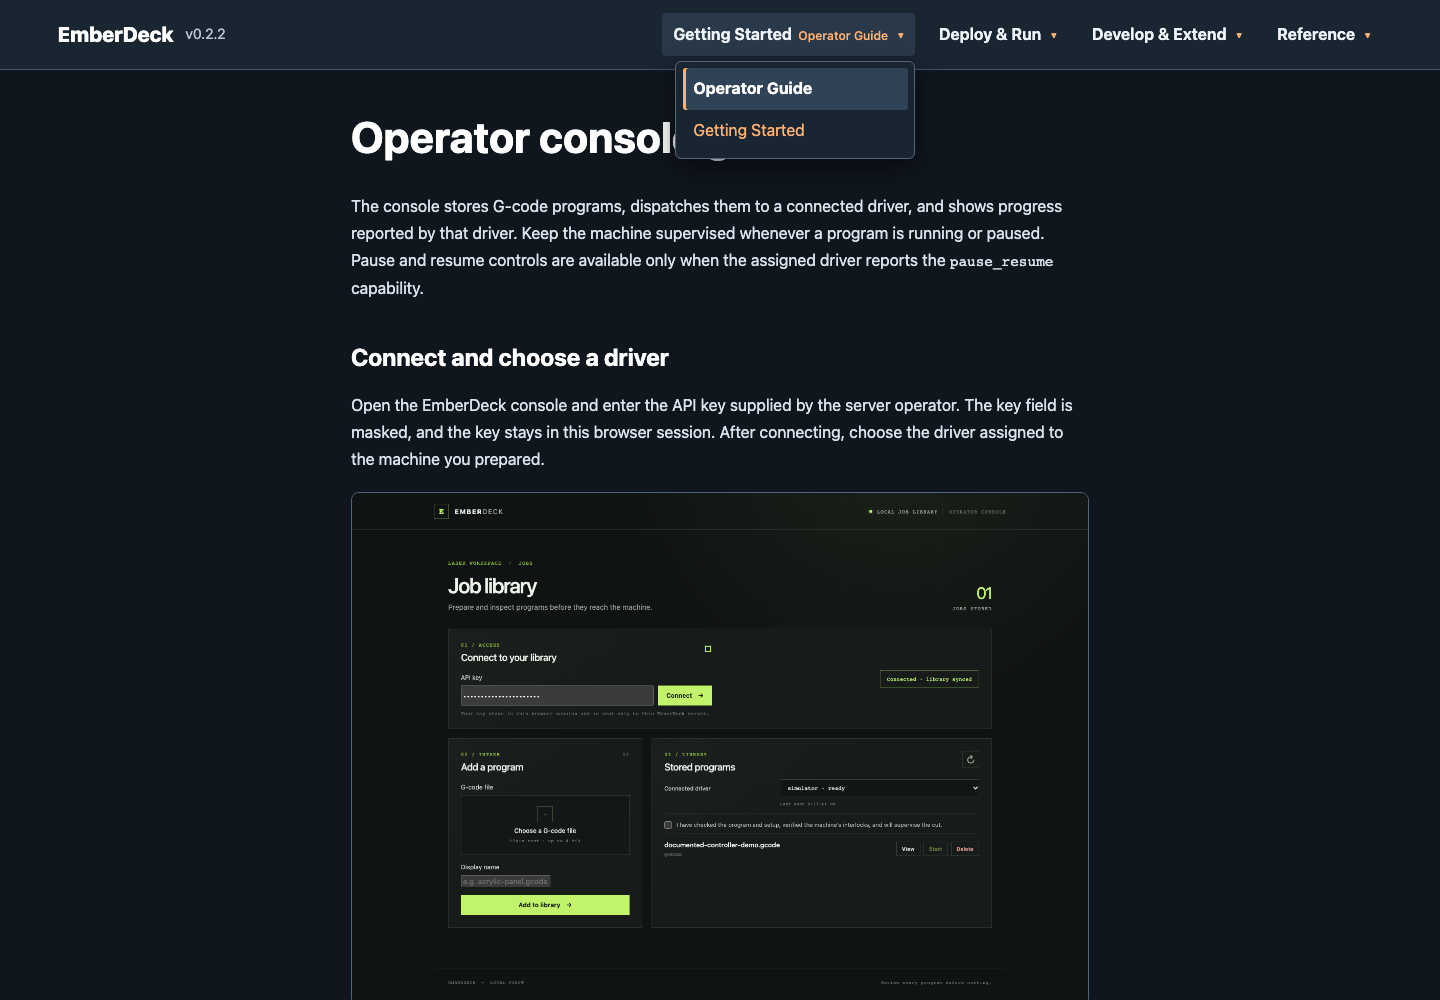
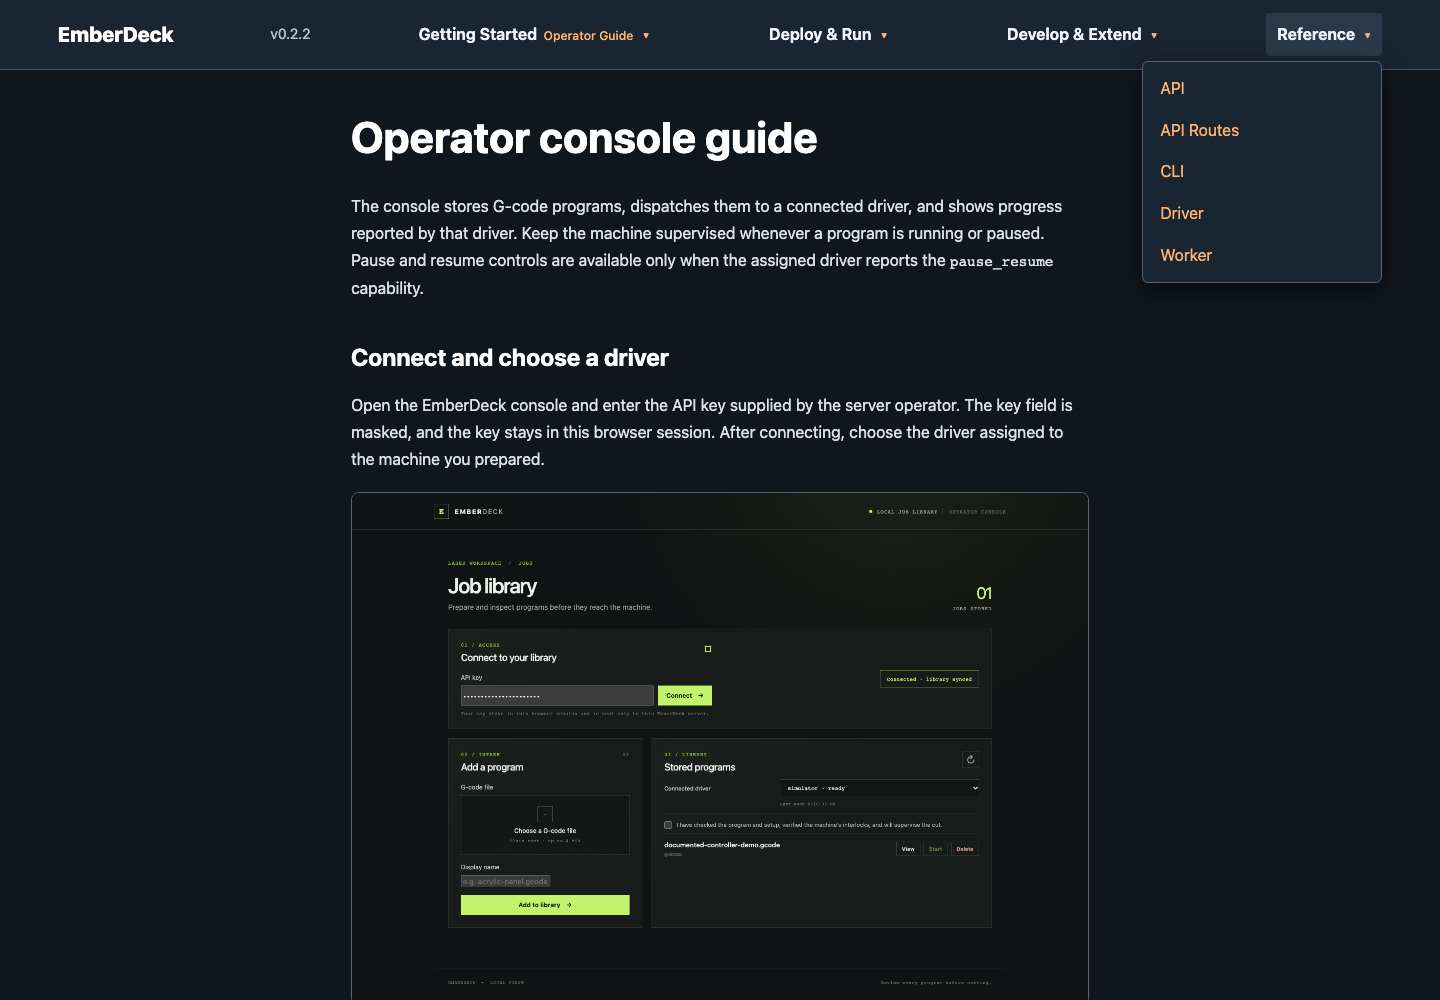
fix: wrap docs navigation at larger text sizes

diff --git a/e2e/capture-docs.js b/e2e/capture-docs.js
@@ -60,10 +60,11 @@ async function captureDocumentationNavigation(browser) {
     await page.goto(guide);
     await expect(page.getByRole('navigation', { name: 'Documentation' })).toBeVisible();
     await expect(page.locator('nav a[aria-current="page"]')).toHaveAttribute('href', 'operator-guide.html');
-    const firstMenu = page.locator('nav summary').first();
-    if (isMobile) await firstMenu.tap();
-    else await firstMenu.click();
-    await expect(page.locator('nav details').first()).toHaveAttribute('open', '');
+    const menu = page.locator('nav details').nth(isMobile ? 0 : 3);
+    const summary = menu.locator('summary');
+    if (isMobile) await summary.tap();
+    else await summary.click();
+    await expect(menu).toHaveAttribute('open', '');
     expect(await page.evaluate(() => document.documentElement.scrollWidth <= innerWidth)).toBe(true);
     await page.screenshot({ path: path.join(screenshotDir, `docs-navigation-after-${name}.png`) });
     await page.close();

diff --git a/e2e/docs-navigation.spec.js b/e2e/docs-navigation.spec.js
@@ -51,6 +51,11 @@ test('rendered documentation has grouped, current, keyboard accessible navigatio
     for (const width of [1024, 768, 721, 720, 681, 390]) {
       await page.setViewportSize({ width, height: 900 });
       expect(await page.evaluate(() => document.documentElement.scrollWidth <= innerWidth), `${pageName} fits ${width}px`).toBe(true);
+      if (width === 768) {
+        await page.locator('nav').evaluate((nav) => { nav.style.fontSize = '20px'; });
+        expect(await page.evaluate(() => document.documentElement.scrollWidth <= innerWidth), `${pageName} fits 768px with larger navigation text`).toBe(true);
+        await page.locator('nav').evaluate((nav) => { nav.style.fontSize = ''; });
+      }
     }
     await page.setViewportSize({ width: 1440, height: 1000 });
 

diff --git a/scripts/build-docs.py b/scripts/build-docs.py
@@ -95,7 +95,7 @@ def make_nav(page_name):
             result += '<li><a href="' + name + '.html"' + current + '>' + escape(title) + '</a></li>'
         result += '</ul></details>'
     return result + '</nav>'
-style = '''*{box-sizing:border-box}body{margin:0;background:#10161e;color:#dae3ec;font:16px/1.7 system-ui,-apple-system,sans-serif}a{color:#ffb171;text-underline-offset:.18em}a:hover{color:#ffd0a4}a:focus-visible,summary:focus-visible{outline:3px solid #ffd18f;outline-offset:3px;border-radius:3px}.sr-only{position:absolute;width:1px;height:1px;padding:0;margin:-1px;overflow:hidden;clip:rect(0,0,0,0);white-space:nowrap;border:0}.skip-link{position:absolute;left:1rem;top:-5rem;z-index:10;padding:.65rem 1rem;background:#fff;color:#10161e;border-radius:4px}.skip-link:focus{top:1rem}nav{position:relative;z-index:2;display:flex;gap:.75rem;padding:.8rem max(1rem,4vw);background:#1a2532;align-items:center;border-bottom:1px solid #435264}nav .brand{font-weight:800;font-size:1.3rem;text-decoration:none;color:#fff}nav .version{margin-right:auto;color:#b6c4d2;font-size:.9rem}nav details{position:relative}nav summary{display:flex;align-items:baseline;gap:.4rem;cursor:pointer;list-style:none;padding:.5rem .7rem;border-radius:4px;font-weight:650;color:#eef4fa}nav summary::-webkit-details-marker{display:none}nav summary::after{content:"▾";margin-left:.15em;color:#ffb171}.current-page{font-size:.76rem;color:#ffb171;font-weight:500}nav details[open] summary{background:#2a3949}nav ul{position:absolute;top:100%;right:0;min-width:15rem;margin:.3rem 0 0;padding:.4rem;list-style:none;background:#1a2532;border:1px solid #536579;border-radius:6px;box-shadow:0 8px 24px #0008}nav li a{display:block;padding:.45rem .65rem;border-radius:3px;text-decoration:none}nav li a:hover,nav li a[aria-current="page"]{background:#304256;color:#fff}nav li a[aria-current="page"]{box-shadow:inset 3px 0 #ffb171;font-weight:700}main{max-width:78ch;margin:2.5rem auto;padding:0 1.5rem;overflow-wrap:anywhere}h1{font-size:clamp(2rem,4vw,2.7rem);margin-top:0}h2{margin-top:2.5rem}h1,h2,h3{line-height:1.25;color:#fff}p,li{max-width:75ch}pre{overflow:auto;background:#1a2532;padding:1.2rem;border-radius:8px;border:1px solid #435264}code{font-size:.9em;overflow-wrap:anywhere}img{display:block;max-width:100%;height:auto;border:1px solid #536579;border-radius:8px;margin:1.2rem 0}table{display:block;overflow-x:auto;border-collapse:collapse;max-width:100%;width:max-content}td,th{padding:.6rem;border:1px solid #435264;text-align:left}footer{margin:3rem 0;border-top:1px solid #435264;padding-top:1rem;color:#b6c4d2}@media(max-width:740px){nav{display:grid;grid-template-columns:1fr auto;gap:.3rem .4rem;padding:.7rem 1rem}nav .brand{grid-column:1;grid-row:1}nav .version{grid-column:2;grid-row:1;margin:0;text-align:right}nav details{grid-column:1/-1;min-width:0}nav summary{padding:.6rem .45rem;font-size:.92rem;flex-wrap:wrap;gap:0 .35rem}nav details[open]{grid-column:1/-1}nav ul{position:static;min-width:0;margin:.2rem 0 .5rem;box-shadow:none}main{margin:1.75rem auto;padding:0 1rem}pre{padding:.85rem}img{margin:.9rem 0}}'''
+style = '''*{box-sizing:border-box}body{margin:0;background:#10161e;color:#dae3ec;font:16px/1.7 system-ui,-apple-system,sans-serif}a{color:#ffb171;text-underline-offset:.18em}a:hover{color:#ffd0a4}a:focus-visible,summary:focus-visible{outline:3px solid #ffd18f;outline-offset:3px;border-radius:3px}.sr-only{position:absolute;width:1px;height:1px;padding:0;margin:-1px;overflow:hidden;clip:rect(0,0,0,0);white-space:nowrap;border:0}.skip-link{position:absolute;left:1rem;top:-5rem;z-index:10;padding:.65rem 1rem;background:#fff;color:#10161e;border-radius:4px}.skip-link:focus{top:1rem}nav{position:relative;z-index:2;display:flex;flex-wrap:wrap;justify-content:space-between;gap:.75rem;padding:.8rem max(1rem,4vw);background:#1a2532;align-items:center;border-bottom:1px solid #435264}nav .brand{font-weight:800;font-size:1.3rem;text-decoration:none;color:#fff}nav .version{color:#b6c4d2;font-size:.9rem}nav details{position:relative;min-width:0}nav summary{display:flex;flex-wrap:wrap;align-items:baseline;gap:.4rem;cursor:pointer;list-style:none;padding:.5rem .7rem;border-radius:4px;font-weight:650;color:#eef4fa}nav summary::-webkit-details-marker{display:none}nav summary::after{content:"▾";margin-left:.15em;color:#ffb171}.current-page{font-size:.76rem;color:#ffb171;font-weight:500}nav details[open] summary{background:#2a3949}nav ul{position:absolute;top:100%;right:0;min-width:15rem;margin:.3rem 0 0;padding:.4rem;list-style:none;background:#1a2532;border:1px solid #536579;border-radius:6px;box-shadow:0 8px 24px #0008}nav li a{display:block;padding:.45rem .65rem;border-radius:3px;text-decoration:none}nav li a:hover,nav li a[aria-current="page"]{background:#304256;color:#fff}nav li a[aria-current="page"]{box-shadow:inset 3px 0 #ffb171;font-weight:700}main{max-width:78ch;margin:2.5rem auto;padding:0 1.5rem;overflow-wrap:anywhere}h1{font-size:clamp(2rem,4vw,2.7rem);margin-top:0}h2{margin-top:2.5rem}h1,h2,h3{line-height:1.25;color:#fff}p,li{max-width:75ch}pre{overflow:auto;background:#1a2532;padding:1.2rem;border-radius:8px;border:1px solid #435264}code{font-size:.9em;overflow-wrap:anywhere}img{display:block;max-width:100%;height:auto;border:1px solid #536579;border-radius:8px;margin:1.2rem 0}table{display:block;overflow-x:auto;border-collapse:collapse;max-width:100%;width:max-content}td,th{padding:.6rem;border:1px solid #435264;text-align:left}footer{margin:3rem 0;border-top:1px solid #435264;padding-top:1rem;color:#b6c4d2}@media(max-width:740px){nav{display:grid;grid-template-columns:1fr auto;gap:.3rem .4rem;padding:.7rem 1rem}nav .brand{grid-column:1;grid-row:1}nav .version{grid-column:2;grid-row:1;margin:0;text-align:right}nav details{grid-column:1/-1;min-width:0}nav summary{padding:.6rem .45rem;font-size:.92rem;flex-wrap:wrap;gap:0 .35rem}nav details[open]{grid-column:1/-1}nav ul{position:static;min-width:0;margin:.2rem 0 .5rem;box-shadow:none}main{margin:1.75rem auto;padding:0 1rem}pre{padding:.85rem}img{margin:.9rem 0}}'''
 for name, text in pages.items():
     # The sources are trusted repository documents, never job or plugin output.
     if name in source_paths:

diff --git a/docs/browser-tests.md b/docs/browser-tests.md
@@ -50,6 +50,8 @@ menus keep the top bar compact; the current page name remains visible in its
 category summary, and the matching link carries `aria-current="page"`. A skip
 link appears first in the keyboard order. At narrow widths, the menu summaries
 stack into full-width rows; opening one expands its links below that row.
+At wider widths, categories wrap across rows when their labels do not fit, which
+keeps the nav usable with larger text settings.
 
 `e2e/docs-navigation.spec.js` builds and opens the public rendered HTML. It
 checks every generated page for one current link, all four complete groups,
